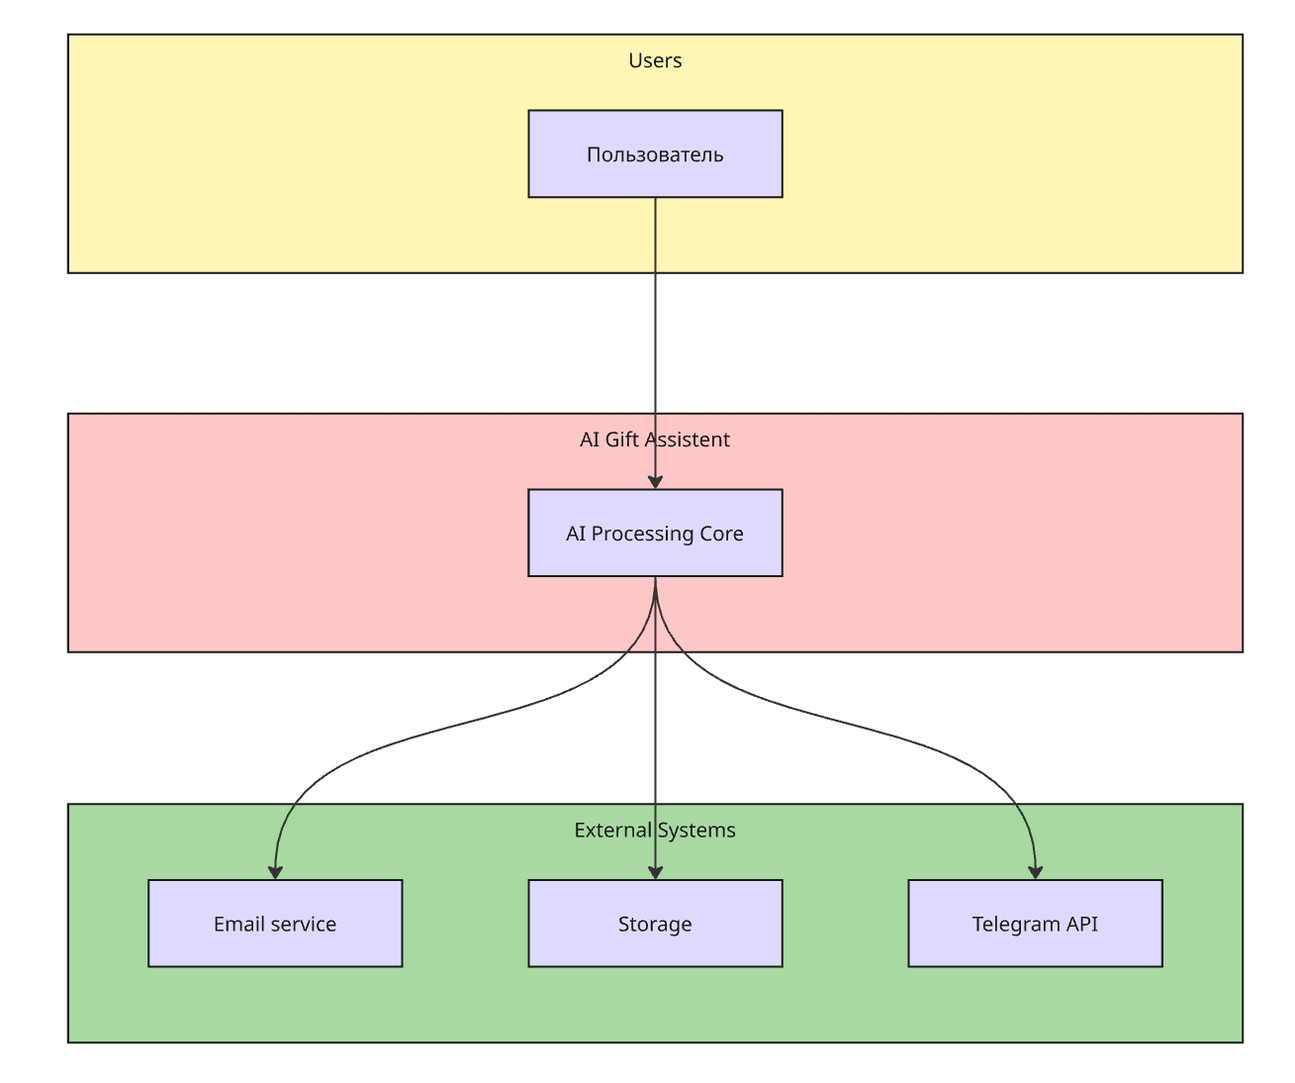
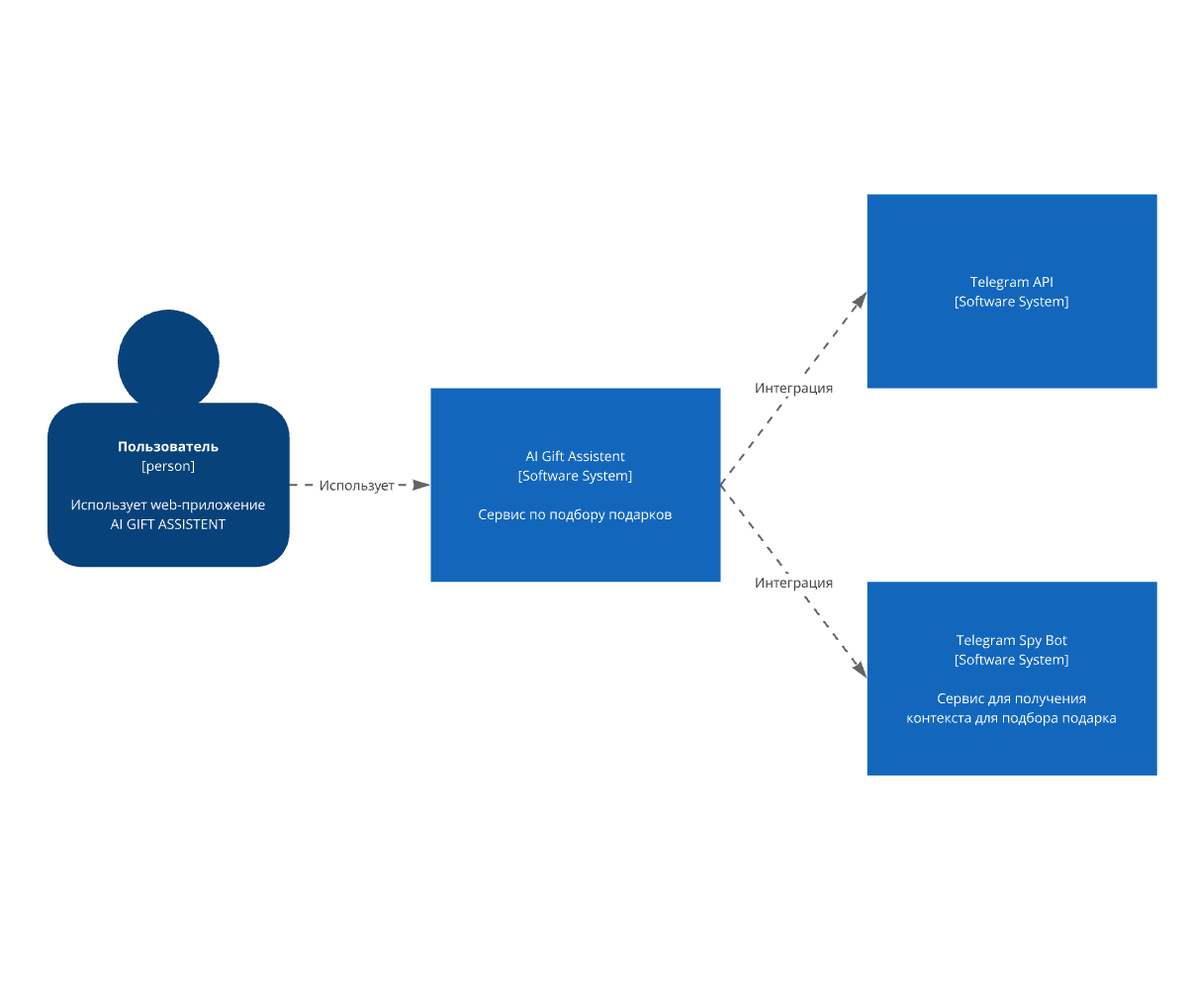
made new c4 diagrams, made changes in files for d2

diff --git a/docs/roadmap.md b/docs/roadmap.md
@@ -10,10 +10,10 @@
 
 ## 2. Разделение на эпики и спринты
 
-| Спринт                    | Эпик                                                         | Основные задачи                                                                                                                                                                                                                                                                                                                                                     | Результат                                                                                                                  |
-| ------------------------- | ------------------------------------------------------------ | ------------------------------------------------------------------------------------------------------------------------------------------------------------------------------------------------------------------------------------------------------------------------------------------------------------------------------------------------------------------- | -------------------------------------------------------------------------------------------------------------------------- |
-| **Спринт 1 (Недели 1–2)** | **Аутентификация, регистрация, профиль, база пользователей** | - Реализация регистрации <br> - Авторизация с JWT-токеном <br> - Восстановление пароля <br> - Подтверждение email <br> - Настройка базы данных пользователей <br> - Просмотр и редактирование профиля <br> - Удаление аккаунта <br> - Добавление полей (ФИО, дата рождения, Telegram, описание) <br> - Валидация форм на клиенте <br> - Push-уведомления (тестовый) | Пользователь может зарегистрироваться, войти и восстановить пароль. Рабочий раздел «Профиль» с возможностью редактирования |
-| **Спринт 2 (Недели 3–4)** | **Система чатов и календаря**                                | - Подбор подарков для авторизованных пользователей <br> - Создание и удаление чатов <br> - Редактирование названия <br> - Просмотр истории сообщений <br> - Поиск по чатам <br> - Переход в календарь <br> - Создание, редактирование и удаление напоминаний <br> - Просмотр событий <br> - Валидация дат                                                           | Рабочий раздел «Чаты» и «Календарь и напоминания»                                                                          |
+| Спринт                    | Эпик                                                         | Основные задачи                                                                                                                                                                                                                                                                                                                                                                   | Результат                                                                                                                  |
+| ------------------------- | ------------------------------------------------------------ | --------------------------------------------------------------------------------------------------------------------------------------------------------------------------------------------------------------------------------------------------------------------------------------------------------------------------------------------------------------------------------- | -------------------------------------------------------------------------------------------------------------------------- |
+| **Спринт 1 (Недели 1–2)** | **Аутентификация, регистрация, профиль, база пользователей** | - Реализация регистрации <br> - Авторизация с JWT-токеном <br> - Восстановление пароля <br> - Подтверждение email <br> - Настройка базы данных пользователей <br> - Просмотр и редактирование профиля <br> - Удаление аккаунта <br> - Добавление полей (ФИО, дата рождения, Telegram, описание) <br> - Подтверждение принадлежности telegramID <br> - Push-уведомления (тестовый) | Пользователь может зарегистрироваться, войти и восстановить пароль. Рабочий раздел «Профиль» с возможностью редактирования |
+| **Спринт 2 (Недели 3–4)** | **Система чатов и календаря**                                | - Подбор подарков для авторизованных пользователей <br> - Создание и удаление чатов <br> - Редактирование названия <br> - Просмотр истории сообщений <br> - Поиск по чатам <br> - Переход в календарь <br> - Создание, редактирование и удаление напоминаний <br> - Просмотр событий <br> - Валидация дат <br> - Telegram-бот для "разведки"                                      | Рабочий раздел «Чаты» и «Календарь и напоминания»                                                                          |
 
 ---
 

diff --git a/docs/definitions.md b/docs/definitions.md
@@ -45,15 +45,13 @@
 | **Производительность**          | Среднее время отклика помощника                       | ≤ 20 секунд                                       |
 | **Точность рекомендаций**       | Оценка релевантности подарков пользователями          | ≥ 80% положительных отзывов                       |
 | **Напоминания**                 | Количество успешно доставленных уведомлений           | ≥ 85% без сбоев                                   |
-| **Удержание**                   | Retention 7-day                                       | ≥ 60% пользователей возвращаются в течение недели |
+| **Удержание**                   | Retention 30-day                                      | ≥ 60% пользователей возвращаются в течение недели |
 
 ---
 
 ## 4. KPI для каждого спринта
 
-| Спринт       | Цель                                                                | KPI                                                                                                     | Ожидаемый результат                                                                            |
-| ------------ | ------------------------------------------------------------------- | ------------------------------------------------------------------------------------------------------- | ---------------------------------------------------------------------------------------------- |
-| **Спринт 1** | Реализация аутентификация, регистрация, профиль, база пользователей | - Аутентификация, регистрация, редактирование профиля без ошибок >95% случаев                           | - Устойчивый доступ к системе.                                                                 |
-| **Спринт 2** | Разработка чата и взаимодействия с ИИ. Напоминания и уведомления    | - Среднее время ответа ≤ 20 с <br> - Доставка уведомлений ≥ 95% <br> - Релевантность рекомендаций ≥ 80% | Диалоговая логика без задержек. Персонализированные результаты. Стабильная система напоминаний |
-
----
+| Спринт       | Цель                                                                 | KPI                                                                                                                                                                                                                                                                 | Ожидаемый результат                                                                               |
+| ------------ | -------------------------------------------------------------------- | ------------------------------------------------------------------------------------------------------------------------------------------------------------------------------------------------------------------------------------------------------------------- | ------------------------------------------------------------------------------------------------- |
+| **Спринт 1** | Реализация аутентификации, регистрации, профиля и базы пользователей | - Успешная регистрация и вход без ошибок ≥ 95%<br> - Корректное редактирование профиля и удаление аккаунта ≥ 90%<br> - Подтверждение email и Telegram ID работает в ≥ 95% случаев<br> - Валидация форм без критических ошибок (100% обязательных полей проверяются) | Полностью функционирующая система пользователей с регистрацией, входом и редактированием профиля. |
+| **Спринт 2** | Разработка системы чатов и календаря                                 | - Создание и отправка сообщений без ошибок ≥ 95%<br> - Поиск и история чатов работают корректно ≥ 90%<br> - Создание, редактирование и удаление напоминаний без ошибок ≥ 95%<br> - Среднее время отклика интерфейса ≤ 2 c                                           | Стабильная работа чатов и календаря с возможностью создания напоминаний и управления событиями.   |

diff --git a/docs/requirements.md b/docs/requirements.md
@@ -57,7 +57,8 @@
 
 2. **Профиль пользователя**
 
-   - Система должна позволять пользователю редактировать свои личные данные: имя, фамилию, отчество, email, номер телефона и баланс.
+   - Система должна позволять пользователю редактировать свои личные данные: имя, фамилию, отчество, email, telegramID.
+   - Система должна обеспечивать принадлежность, записанного telegramID пользователю.
    - Система должна требовать подтверждения действия при изменении данных.
    - Система должна выполнять проверку формата email и номера телефона при обновлении профиля.
    - Система должна сохранять изменения профиля в базе данных после успешной валидации.
@@ -71,6 +72,7 @@
    - Система должна предоставлять пользователю возможность просматривать список доступных чатов.
    - Система должна позволять пользователю отправлять и получать сообщения внутри чата.
    - Система должна обеспечивать удаление чата вместе с его сообщениями по запросу пользователя.
+   - Система должна обеспечивать возможность отправки telegram-бота на "разведку" желаемого подарка у определенного пользователя.
 
 4. **Обработка запросов пользователей**
 
@@ -84,9 +86,6 @@
 
    - Система должна позволять пользователю просматривать список доступных подарков.
    - Система должна предоставлять возможность фильтрации подарков по категории, цене, получателю и событию.
-   - Система должна позволять добавлять выбранные подарки в список избранного.
-   - Система должна обеспечивать возможность удаления подарков из списка избранного.
-   - Система должна предоставлять пользователю детальную информацию о каждом подарке.
    - Система должна сохранять действия пользователя (просмотр, добавление, удаление) в истории активности.
 
 6. **Поиск и фильтрация**
@@ -101,7 +100,6 @@
 
    - Система должна позволять пользователю добавлять новые напоминания о событиях.
    - Система должна обеспечивать редактирование и удаление существующих напоминаний.
-   - Система должна синхронизировать напоминания с локальным календарём пользователя.
    - Система должна отправлять уведомления пользователю за заданное время до наступления события.
    - Система должна предоставлять пользователю возможность просмотра списка всех напоминаний.
    - Система должна проверять корректность даты и времени при создании напоминания.

diff --git a/docs/architecture/c4-diagrams.md b/docs/architecture/c4-diagrams.md
@@ -34,7 +34,7 @@
 | **nodemon**            | Автоперезапуск сервера при изменениях      | Ускоряет процесс разработки и тестирования.                                  |
 | **ts-node**            | Запуск TypeScript без компиляции           | Позволяет быстро тестировать код и сценарии.                                 |
 | **Multer**             | Работа с файлами (например, фото подарков) | Простая обработка загрузок изображений и медиафайлов на сервер.              |
-| Node-cron              | Планировщик задач                          | Отправка напоминаний и уведомлений пользователям в заданное время.           |
+| **Node-cron**          | Планировщик задач                          | Отправка напоминаний и уведомлений пользователям в заданное время.           |
 
 ### Database
 
@@ -46,8 +46,7 @@
 
 ### Внешние интеграции
 
-| Сервис                 | Назначение                                          | Обоснование                                                                     |
-| ---------------------- | --------------------------------------------------- | ------------------------------------------------------------------------------- |
-| **OpenAI API**         | Генерация идей подарков и текстовых подсказок       | Используется для интеллектуальных ответов и персонализированных рекомендаций.   |
-| **Telegram API**       | Отправка уведомлений о уведомлений и поддтверждения | Удобный и привычный пользователям канал связи для уведомлений и поддтверждения. |
-| **Email (Nodemailer)** | Подтверждение регистрации на сайте                  | Используется для отправки напоминаний, подтверждений и уведомлений по email.    |
+| Сервис               | Назначение                                         | Обоснование                                                                           |
+| -------------------- | -------------------------------------------------- | ------------------------------------------------------------------------------------- |
+| **Telegram API**     | Отправка уведомлений и уведомлений поддтверждения  | Удобный и привычный пользователям канал связи для уведомлений и поддтверждения.       |
+| **Telegram Spy Bot** | Сервис для получения контекста для подбора подарка | Способ позволяющий улычшить подбор подарка и повышающий вероятность успешного подбора |
